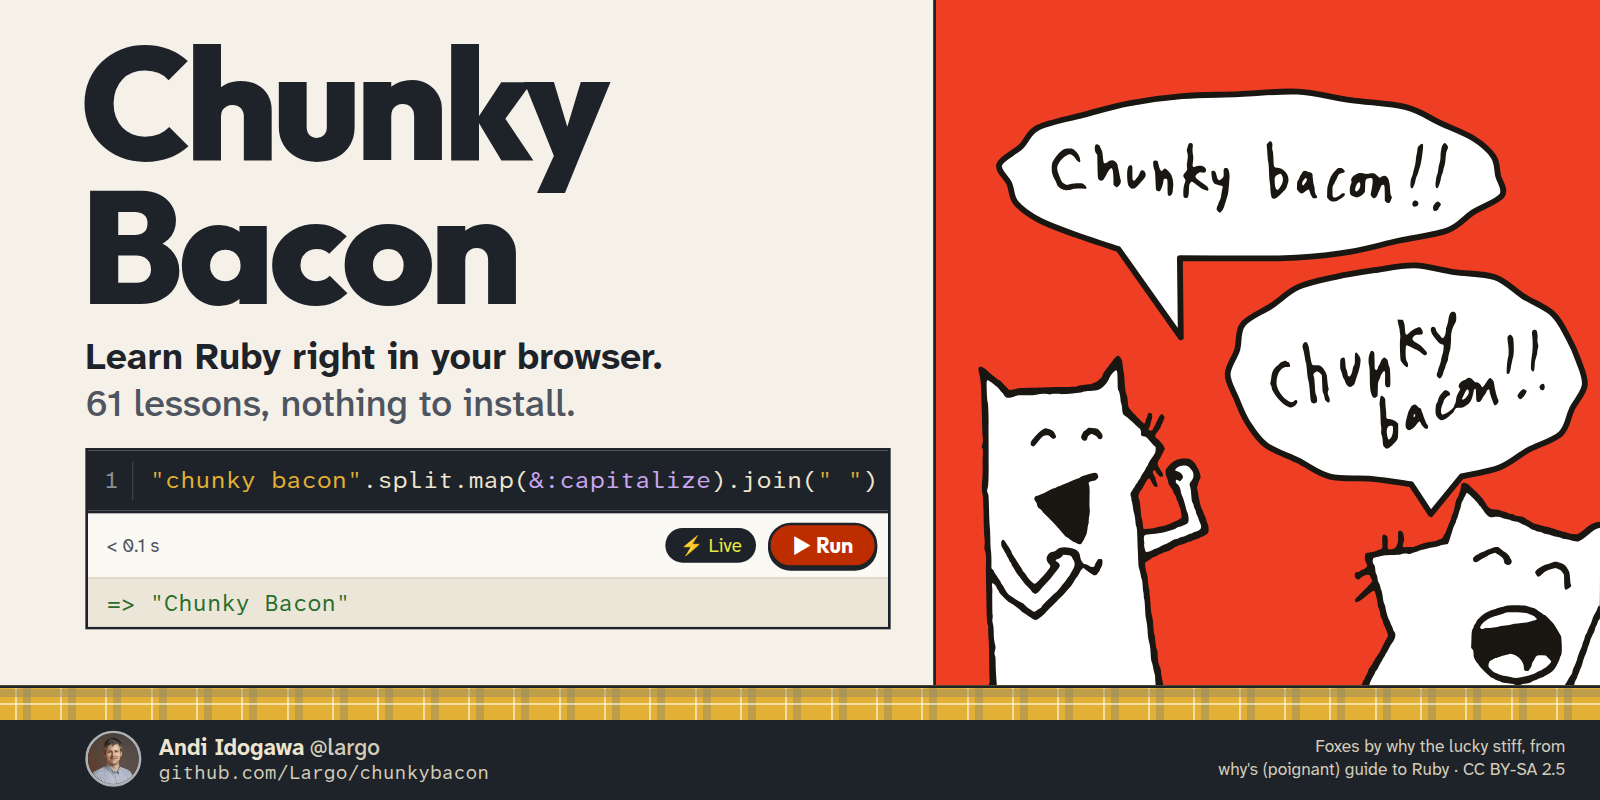
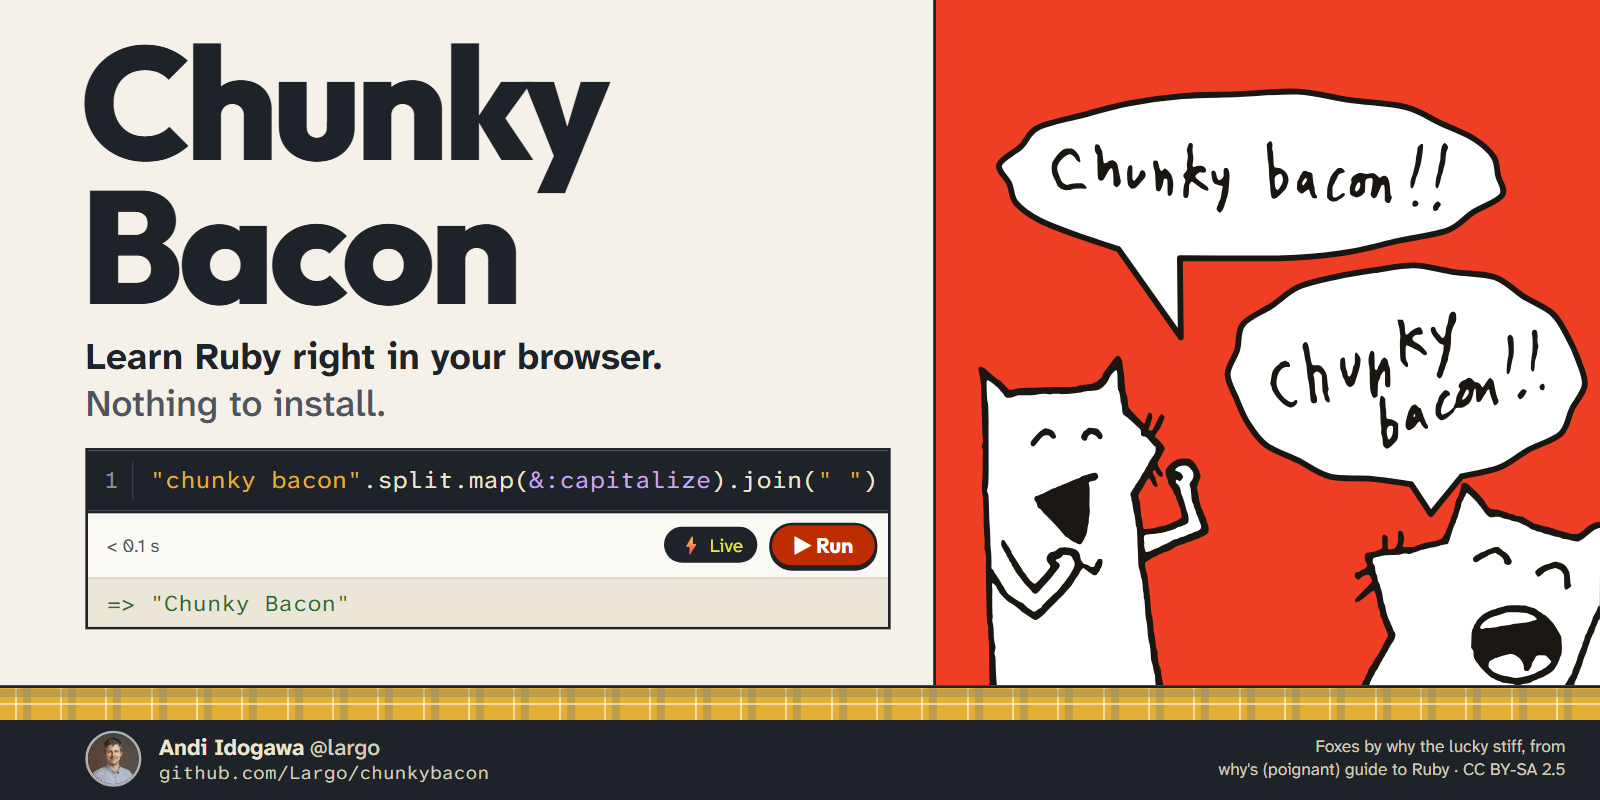
No lesson count anywhere: it only went stale and blocked merges
Two branches that each add a lesson both had to change "61 lessons" in the
README, HANDOVER, OPEN_WORK and the social cards - a conflict every time,
and a re-render of the cards. The count told a reader little.

- README, HANDOVER, OPEN_WORK: the count is gone ("Lessons from puts ...",
  "the lessons in three groups"); the harness line says "every lesson"
- Social cards: "Nothing to install." instead of "N lessons, nothing to
  install."; card.html no longer takes ?lessons=N, render_social_cards.mjs
  no longer reads lessons.js; both cards rendered once more
- Linter: a lesson count in the docs, tests or shell is a warning
  (doc-count) instead of being checked against the current number
- The sidebar's "2/61" progress stays: the shell computes it

diff --git a/docs/social/card.html b/docs/social/card.html
@@ -11,7 +11,7 @@
      balloons out, as under prefers-reduced-motion): by why the lucky stiff,
      from why's (poignant) guide to Ruby, CC BY-SA 2.5 - the card credits
      them, keep that line. No Citroen marks.
-     ?lessons=N fills in the lesson count. The page is laid out on a
+     The page is laid out on a
      1200-unit stage scaled to 1600 pixels; it needs a server (file:// blocks
      the fonts and the fetch), and sets html.ready once the foxes are in. -->
 <html lang="en">
@@ -225,7 +225,7 @@
 <div class="stage">
   <div class="wordmark">Chunky<br>Bacon</div>
 
-  <p class="tagline">Learn Ruby right in your browser.<span class="sub"><span id="lessons">41</span> lessons, nothing to install.</span></p>
+  <p class="tagline">Learn Ruby right in your browser.<span class="sub">Nothing to install.</span></p>
 
   <div class="cell">
     <div class="code"><span class="gutter">1</span><span class="line"><span class="s">"chunky bacon"</span>.split.map(<span class="y">&amp;:capitalize</span>).join(<span class="s">" "</span>)</span></div>
@@ -242,8 +242,6 @@
   </div></div>
 </div>
 <script>
-  var n = new URLSearchParams(location.search).get("lessons");
-  if (n) document.getElementById("lessons").textContent = n;
   fetch("/html/assets/why-foxes/chunky-bacon.svg")
     .then(function (r) { return r.text(); })
     .then(function (svg) {

diff --git a/test/lint_lessons.rb b/test/lint_lessons.rb
@@ -5,7 +5,7 @@
 # not written by id ("lesson {{nr:methoden}}", html/lesson_refs.rb) or name
 # the wrong lesson, the mechanical half of the Japanese rules (HANDOVER §3),
 # Ruby that does not parse or warns, gems the cache does not have, and
-# lesson counts in the docs that went stale.
+# a lesson count in the docs (they leave it out: it goes stale).
 #
 #   ruby lint_lessons.rb                 # errors + warnings, grouped
 #   ruby lint_lessons.rb --verbose       # also INFO (reference table, ...)
@@ -1034,6 +1034,9 @@ module LessonLint
     COUNT_FILES = %w[README.md docs/*.md test/*.mjs test/*.rb test/shell/**/*.rb html/index.html
                      html/shell/**/*.{rb,js,html} server/**/*.rb gem/**/README.md].freeze
 
+    # Nothing states how many lessons there are: a count in the docs, the
+    # tests or on a card goes stale with the next lesson and blocks merges
+    # that are otherwise independent. The tests read it from the course.
     def check_counts
       count = lessons.size
       files = COUNT_FILES.flat_map { |g| Dir.glob(File.join(@root, g)) }.uniq
@@ -1041,15 +1044,10 @@ module LessonLint
         rel = path.delete_prefix("#{@root}/")
         File.readlines(path, encoding: "UTF-8").each_with_index do |text, n|
           text.scan(/(?<![§\d.])(\d+)\s*(lessons|Lektionen|レッスン)(?!\s*\d)/) do |num, word|
-            k = num.to_i
-            next if k == count || k < 5 # "3 lessons" style small numbers are rarely the total
-            add("counts", "WARN", "stale-count", where: rel, line: "#{rel}:#{n + 1}",
-                message: "\"#{num} #{word}\" but there are #{count} lessons", detail: [Text.snippet(text, 120)], extra: "#{num}#{word}")
-          end
-          text.scan(/(\d+)\s*(?:lessons|Lektionen)\s*[x×]\s*3/) do |(num)|
-            next if num.to_i == count
-            add("counts", "WARN", "stale-count", where: rel, line: "#{rel}:#{n + 1}",
-                message: "\"#{num} lessons × 3\" but there are #{count} lessons", extra: "#{num}x3")
+            next if num.to_i < 5 # "3 lessons" style small numbers are rarely the total
+            add("counts", "WARN", "doc-count", where: rel, line: "#{rel}:#{n + 1}",
+                message: "\"#{num} #{word}\" - leave the lesson count out (there are #{count} now; it goes stale)",
+                detail: [Text.snippet(text, 120)], extra: "#{num}#{word}")
           end
         end
       end

diff --git a/docs/HANDOVER.md b/docs/HANDOVER.md
@@ -4,7 +4,7 @@ Everything you need to run, change and extend the site. The README says
 what the site is; this document says how it works and where the traps are.
 Work in progress - what is unfinished, and in what state - is in
 `docs/OPEN_WORK.md`.
-Last updated 2026-10-08 (61 lessons in German, English and Japanese).
+Last updated 2026-10-16. The course is in German, English and Japanese.
 
 ## 1. Where it runs
 
@@ -161,8 +161,8 @@ tools/render_social_cards.mjs  docs/social/card.html -> docs/social/twitter-card
 tools/lesson_numbers_to_ids.rb  a lessons.js from before 2026-10-16 to lessons numbered by place (§3)
                            (1600x900: X, Bluesky, Mastodon, README) and
                            html/social/github-social.png (1600x800: GitHub social
-                           preview, og:image); fills in the lesson count, so rerun it
-                           when that changes. og:image is the site's own copy,
+                           preview, og:image); rerun it after changing card.html.
+                           og:image is the site's own copy,
                            https://chunkybacon.idogawa.com/social/github-social.png
 docs/social/               the social cards: card.html (source) and twitter-card.png
 gem/chunky_bacon/          the companion gem: the course's helpers on a computer,
@@ -370,9 +370,10 @@ Rules that the code and tests rely on:
 - Tests and docs name lessons by id, never by number: the tests read the
   count and a lesson's place from the course (`lesson_count`,
   `lesson_number(id)` in `test/shell/harness.rb`; `window.LESSONS` in the
-  browser tests), the docs write "lesson `spinel`". The README's lesson
-  count and the social cards (`tools/render_social_cards.mjs`) are the
-  only numbers that change with a new lesson; the linter flags a stale one.
+  browser tests), the docs write "lesson `spinel`". Nothing states how
+  many lessons there are - not the README, the docs or the social cards -
+  so a new lesson changes no other file; the linter flags a count in the
+  docs.
 - `test/check_harness.rb` needs a `SOLUTIONS[id]` entry (one or more solution
   snippets for `de` and `en`; `ja` uses `en`'s) or it aborts. Its body runs in
   a method because lesson bindings capture top-level locals, and each
@@ -2214,7 +2215,7 @@ in that regex.
 ```sh
 cd test
 node make_lessons_json.js      # test/lessons.json
-ruby check_harness.rb          # 61 lessons x 3 languages, starter fails, solutions pass
+ruby check_harness.rb          # every lesson x 3 languages, starter fails, solutions pass
 ruby lint_lessons.rb           # lessons.js content: de/en/ja parity, references, Japanese rules, Prism, gems, counts
 ruby lint_lessons_test.rb      # the linter's fault-injection tests
 ruby gems_harness.rb           # installer, sinatra/roda, nokogiri, bigdecimal, errors

diff --git a/README.md b/README.md
@@ -8,7 +8,7 @@ Learn Ruby in your browser — an interactive, notebook-style course in
 
 ## What's inside
 
-- **61 lessons** from `puts "Hallo, Welt!"` to classes, modules, IRB,
+- **Lessons** from `puts "Hallo, Welt!"` to classes, modules, IRB,
   gems, HTML parsing with Nokogiri, exact arithmetic with BigDecimal, web
   routing with Sinatra and Roda, 3D graphics, tables, frames and colours
   for the terminal with the [TTY toolkit](https://ttytoolkit.org),
@@ -52,7 +52,7 @@ Learn Ruby in your browser — an interactive, notebook-style course in
   that lost it; `fox["name"]` on a hash with symbol keys suggests
   `fox[:name]`). Ruby's own message stays one click away. 44 rules,
   checked against 70 typical beginner mistakes drawn from the exercises.
-- **Lesson sidebar**: the 61 lessons in three groups (basics, side trips,
+- **Lesson sidebar**: the lessons in three groups (basics, side trips,
   the timelog track) with done counts, ticks and a bacon progress strip,
   searchable and foldable; it can be put away, and on a phone it is a
   drawer.

diff --git a/docs/OPEN_WORK.md b/docs/OPEN_WORK.md
@@ -31,7 +31,7 @@ Last updated 2026-10-06.
   loaded. The first build takes a few minutes; it keeps about 175 MB in
   `.cache/spinel/` and about 115 MB per build in `html/assets/spinel/`
   (the current one and the one before).
-- `main` has 61 lessons (2026-10-08; the SciRuby lessons `daru` to `networkx` - Daru, statistics, networkx.rb - came last, after ruby2d (42), the other Rubies and PicoRuby (43-44) and Spinel (45)). The site does NOT show it yet: the
+- `main` (2026-10-08: the SciRuby lessons `daru` to `networkx` - Daru, statistics, networkx.rb - came last, after `ruby2d`, the other Rubies and PicoRuby (`rubies`, `picoruby`) and Spinel (`spinel`)). The site does NOT show it yet: the
   host's checkout stopped following `main` on 2026-09-30 (the history
   rewrite; GitHub's push webhook is answered with 202, but the live
   `lessons.js` is from 2026-09-30). On the host: `git status`, then
